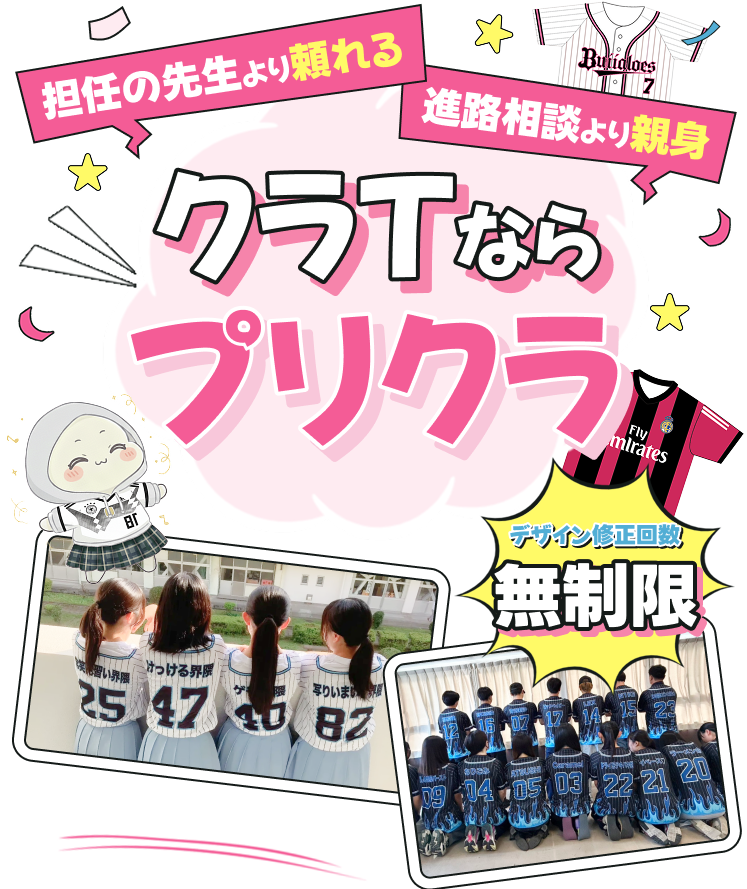
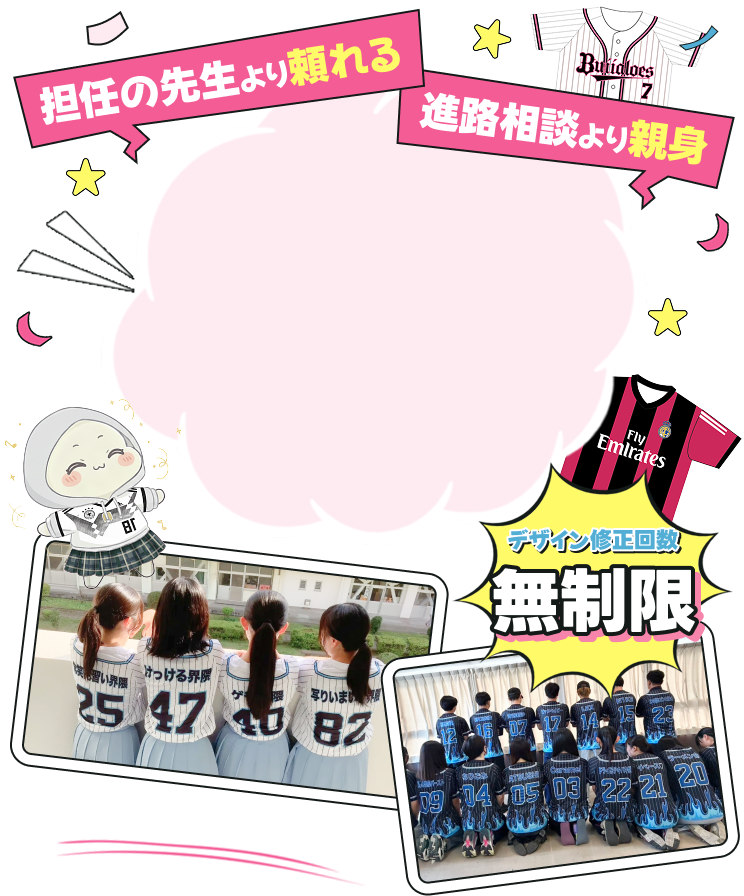
FVタイトルのテキスト化・セクションID追加・ボタン画像整理
- FVのタイトルを画像からテキスト+背景画像構成に変更
- 各セクションにid属性を追加しフッターナビからのアンカーリンクを設定
- CTAボタン画像をgreen-btn-1/2/3に統一・旧ファイル削除
- FV画像（fv.png）の差し替え

diff --git a/index.html b/index.html
@@ -14,18 +14,24 @@
   <body>
     <section class="fv">
       <h1>
+        <div class="fv__title--wrap">
+          <span class="fv__title--top">クラT<span>なら</span></span
+          ><br />
+          <span class="fv__title--bottom">プリクラ</span>
+        </div>
         <img
-          class="fv__title"
+          class="fv__title--bg"
           src="img/fv/fv.png"
-          alt="クラTならプリクラ。デザイン修正回数無制限"
+          alt="担任の先生より頼れる。進路相談より親身。デザイン修正回数無制限"
         />
       </h1>
+
       <a href="" target="_blank" class="fv__btn"
-        ><img src="./img/green-btn.png" alt="デザイン相談をする"
+        ><img src="./img/green-btn-1.png" alt="デザイン相談をする"
       /></a>
     </section>
     <div class="design-wrapper">
-      <section class="design">
+      <section id="design" class="design">
         <img
           src="./img/design/left-line.png"
           alt=""
@@ -116,12 +122,12 @@
           </article>
         </div>
         <a href="" target="_blank" class="design__btn"
-          ><img src="./img/green-btn.png" alt="デザイン相談をする"
+          ><img src="./img/green-btn-1.png" alt="デザイン相談をする"
         /></a>
       </section>
     </div>
 
-    <section class="example">
+    <section id="example" class="example">
       <img
         src="./img/example/star-left.png"
         alt=""
@@ -172,7 +178,7 @@
       <img src="./img/example/line.png" alt="" class="example__line" />
     </section>
 
-    <section class="difference">
+    <section id="difference" class="difference">
       <h2 class="difference__title">他と何が違うの?</h2>
 
       <div class="difference__figure">
@@ -180,10 +186,10 @@
       </div>
 
       <a href="" target="_blank" class="difference__btn"
-        ><img src="./img/green-btn-soudan.png" alt="相談だけしてみる"
+        ><img src="./img/green-btn-2.png" alt="相談だけしてみる"
       /></a>
     </section>
-    <section class="flow">
+    <section id="flow" class="flow">
       <h2 class="flow__title">
         クラTの作成手順は、<br />ストーリー上げるより<br /><span>簡単</span>
       </h2>
@@ -219,7 +225,7 @@
       </article>
     </section>
 
-    <section class="question">
+    <section id="question" class="question">
       <h2 class="question__title">よくある質問</h2>
 
       <article class="question__article">
@@ -247,7 +253,7 @@
       </article>
 
       <a href="" target="_blank" class="question__btn"
-        ><img src="./img/green-btn-soudan-2.png" alt="相談してみる"
+        ><img src="./img/green-btn-3.png" alt="相談してみる"
       /></a>
     </section>
 
@@ -267,11 +273,13 @@
       </ul>
 
       <ul class="footer__nav">
-        <li class="footer__nav--item"><a href="">デザイン</a></li>
-        <li class="footer__nav--item"><a href="">制作事例</a></li>
-        <li class="footer__nav--item"><a href="">プリクラの強み</a></li>
-        <li class="footer__nav--item"><a href="">お届けまでの流れ</a></li>
-        <li class="footer__nav--item"><a href="">よくある質問</a></li>
+        <li class="footer__nav--item"><a href="#design">デザイン</a></li>
+        <li class="footer__nav--item"><a href="#example">制作事例</a></li>
+        <li class="footer__nav--item">
+          <a href="#difference">プリクラの強み</a>
+        </li>
+        <li class="footer__nav--item"><a href="#flow">お届けまでの流れ</a></li>
+        <li class="footer__nav--item"><a href="#question">よくある質問</a></li>
       </ul>
 
       <div class="footer__btn--wrap">

diff --git a/css/styles.scss b/css/styles.scss
@@ -51,8 +51,51 @@ body {
   padding-top: 10px;
 
   &__title {
-    width: 100%;
-    height: 100%;
+    position: relative;
+    &--wrap {
+      position: absolute;
+      z-index: 1;
+      top: 31%;
+      left: 50%;
+      transform: translate(-50%, -50%);
+      width: 67%;
+    }
+    &--top {
+      color: #fff;
+      text-shadow: 6px 6px 0 #f684ab;
+      -webkit-text-stroke-width: 2px;
+      -webkit-text-stroke-color: #141a18;
+      font-family: 'GenEi POPle Pw';
+      font-size: 60px;
+      font-style: normal;
+      font-weight: 900;
+      line-height: normal;
+
+      span {
+        color: #fff;
+        font-family: 'GenEi POPle Pw';
+        font-size: 40px;
+        font-style: normal;
+        font-weight: 900;
+        line-height: normal;
+      }
+    }
+    &--bottom {
+      color: #f45c96;
+      text-shadow: 6px 6px 0 #f8c7da;
+      -webkit-text-stroke-width: 2px;
+      -webkit-text-stroke-color: #fff;
+      font-family: 'GenEi POPle Pw';
+      font-size: 72px;
+      font-style: normal;
+      font-weight: 900;
+      line-height: normal;
+    }
+    &--bg {
+      width: 100%;
+      height: 100%;
+      z-index: -1;
+    }
   }
 
   &__btn {

diff --git a/css/styles.css b/css/styles.css
@@ -37,8 +37,50 @@ body {
   padding-top: 10px;
 }
 .fv__title {
+  position: relative;
+}
+.fv__title--wrap {
+  position: absolute;
+  z-index: 1;
+  top: 31%;
+  left: 50%;
+  transform: translate(-50%, -50%);
+  width: 67%;
+}
+.fv__title--top {
+  color: #fff;
+  text-shadow: 6px 6px 0 #f684ab;
+  -webkit-text-stroke-width: 2px;
+  -webkit-text-stroke-color: #141a18;
+  font-family: "GenEi POPle Pw";
+  font-size: 60px;
+  font-style: normal;
+  font-weight: 900;
+  line-height: normal;
+}
+.fv__title--top span {
+  color: #fff;
+  font-family: "GenEi POPle Pw";
+  font-size: 40px;
+  font-style: normal;
+  font-weight: 900;
+  line-height: normal;
+}
+.fv__title--bottom {
+  color: #f45c96;
+  text-shadow: 6px 6px 0 #f8c7da;
+  -webkit-text-stroke-width: 2px;
+  -webkit-text-stroke-color: #fff;
+  font-family: "GenEi POPle Pw";
+  font-size: 72px;
+  font-style: normal;
+  font-weight: 900;
+  line-height: normal;
+}
+.fv__title--bg {
   width: 100%;
   height: 100%;
+  z-index: -1;
 }
 .fv__btn {
   display: block;
